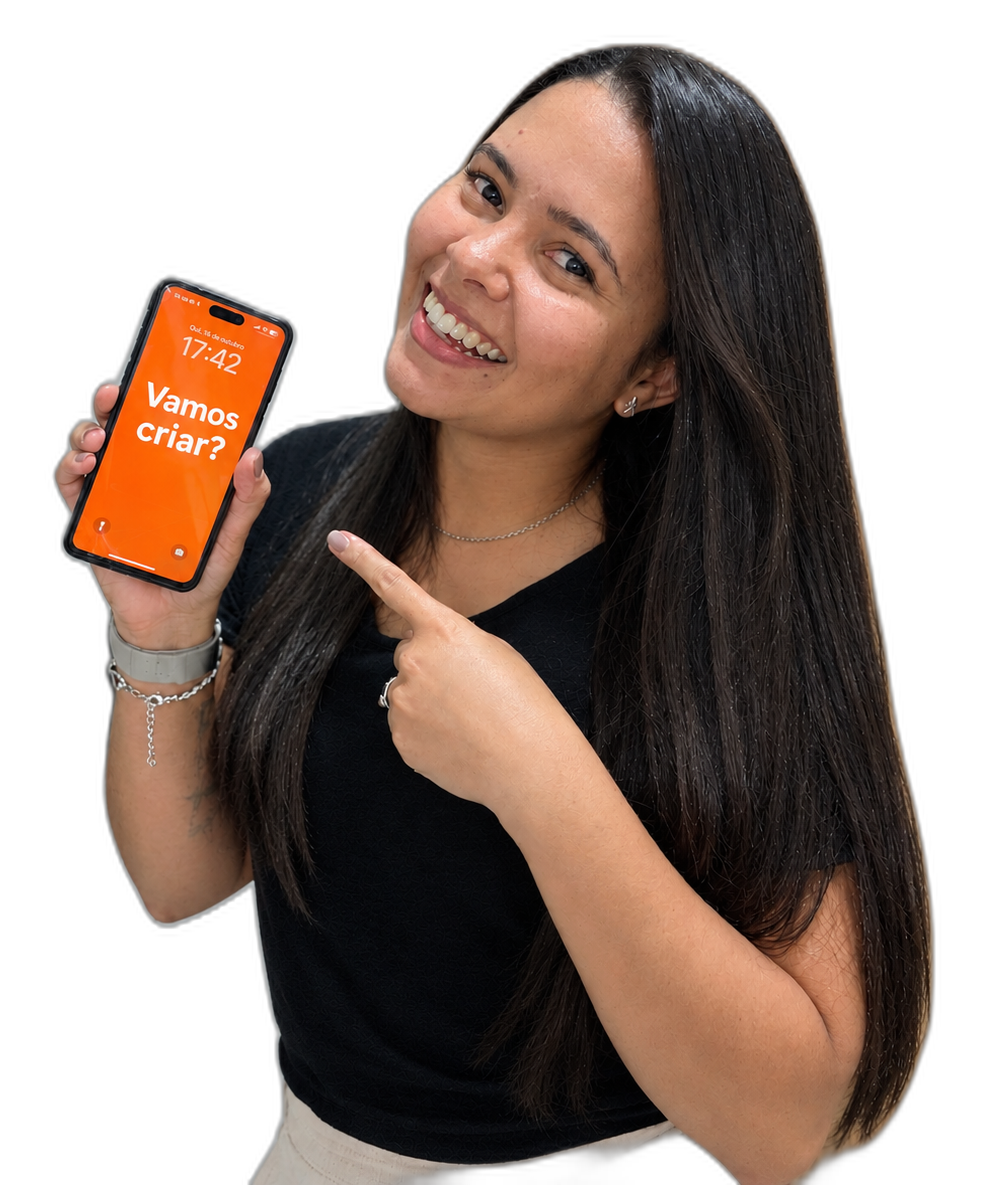
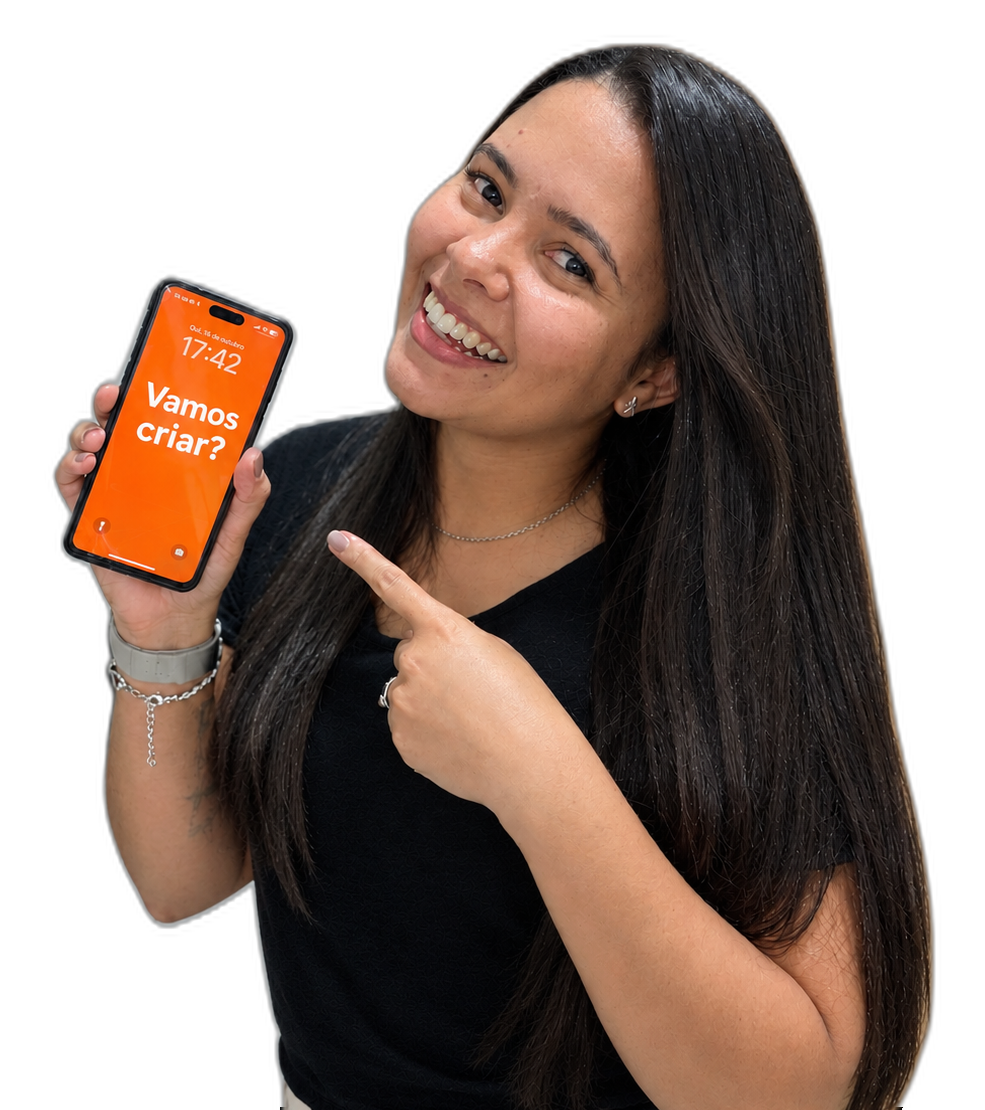
Corta reto a base da foto em "Criar juntos" (sem transparência irregular)
A remoção de fundo deixava uma franja de pixels semi-transparentes
perto da cintura, dando um efeito desbotado/irregular na borda de
baixo. Cortei a imagem um pouco acima desse ponto e forcei opacidade
total na última linha, pra ficar um corte reto e limpo.

diff --git a/index.html b/index.html
@@ -550,7 +550,7 @@ body.trava{overflow:hidden}
     </div>
     <div class="criar-grade">
       <div class="criar-foto">
-        <img src="img/bora-criar.png" alt="Luana Caper segurando o celular e apontando pra tela, que mostra &quot;Vamos criar?&quot;" loading="lazy" width="985" height="1185">
+        <img src="img/bora-criar.png" alt="Luana Caper segurando o celular e apontando pra tela, que mostra &quot;Vamos criar?&quot;" loading="lazy" width="985" height="1110">
       </div>
       <div class="serv-grade" id="servGrade"></div>
     </div>
